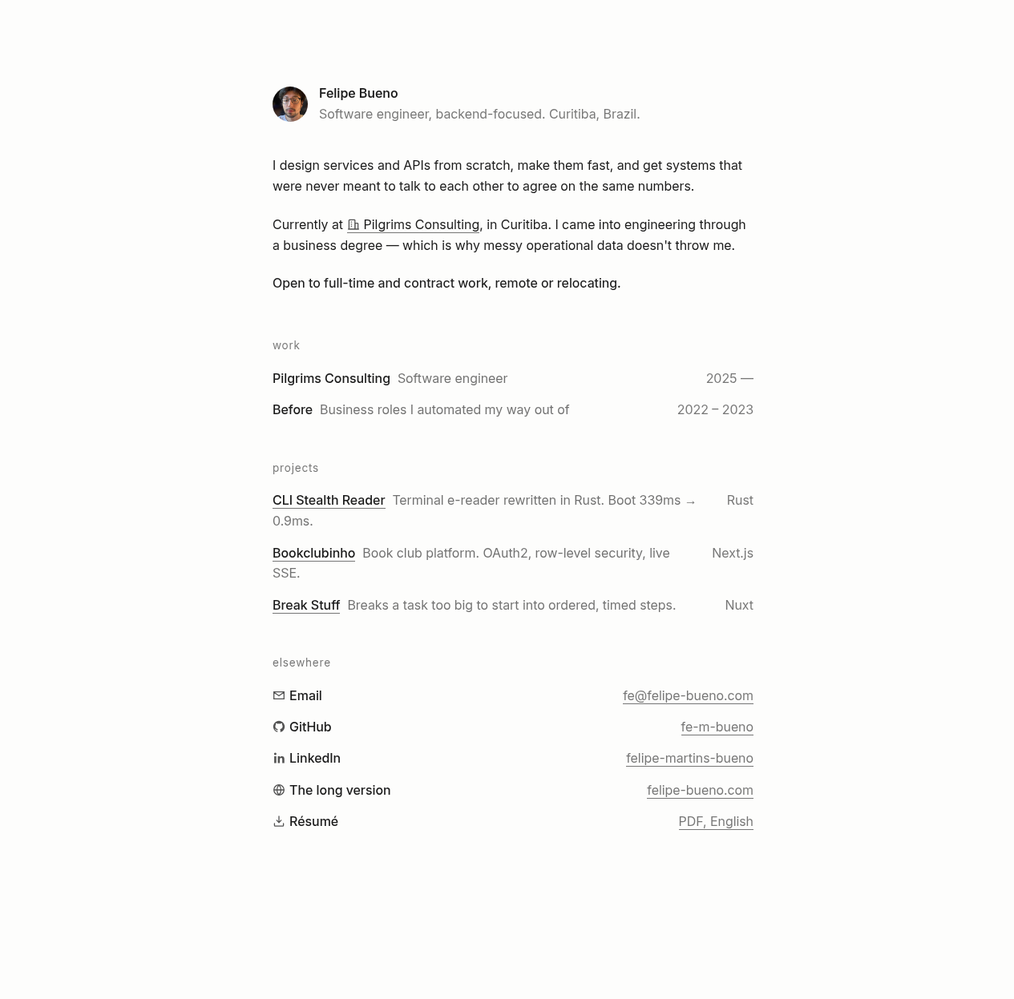
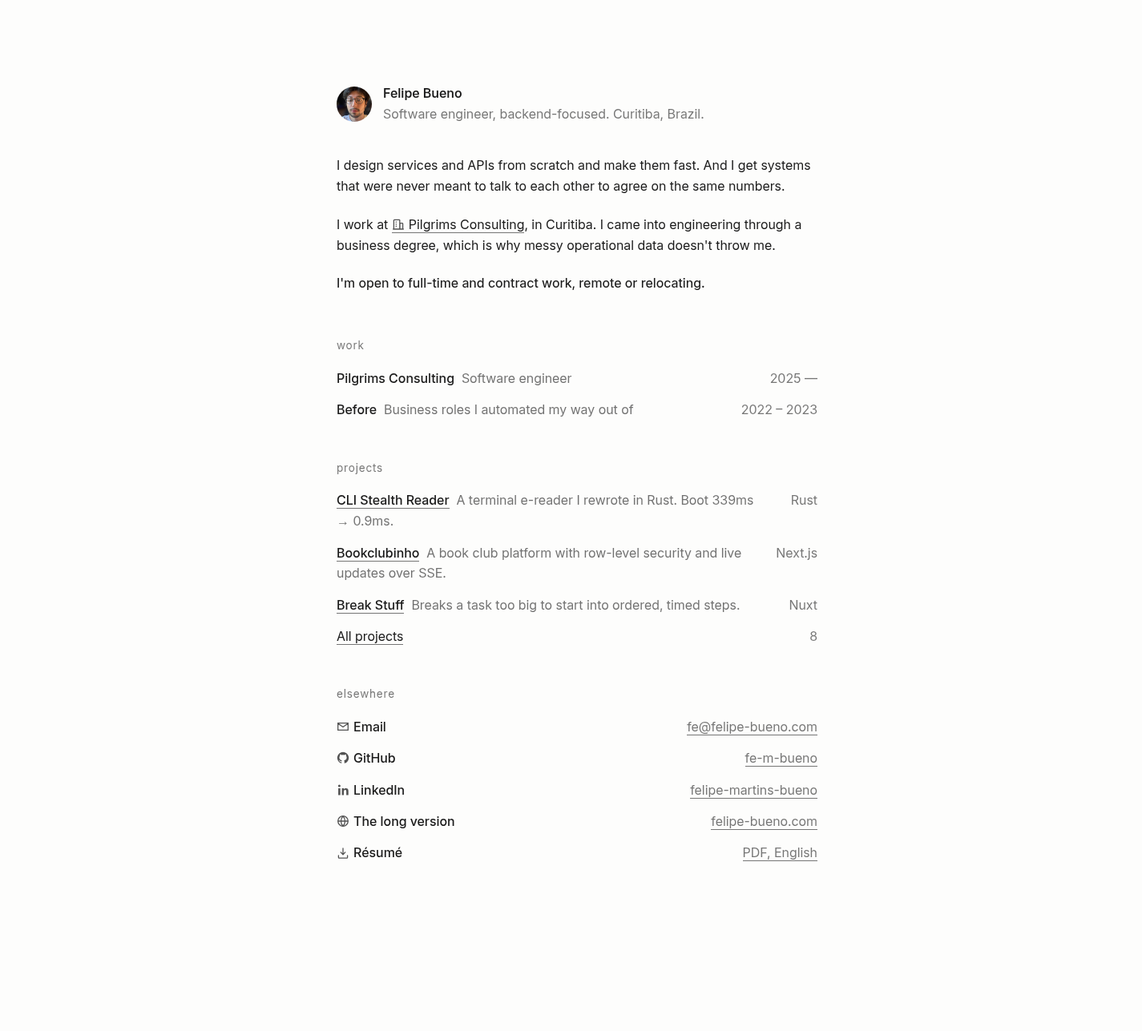
feat: second route, mobile rules and the hover indulgence
Adds /projects, a query over every published project. The rows read from
the project metrics field, which already holds short fragments, so the page
needs no new content type and no new copy. This revises the earlier decision
to ship a single route with no internal navigation.

Fixes the row primitive on mobile: below 560px, rows carrying a detail stack
and the meta moves underneath. Elsewhere rows have no detail and stay in two
columns. Verified at 390x844 with no horizontal overflow.

Settles the indulgence. Hovering a list dims its siblings to 30% and draws a
dotted leader across the pointed row, connecting its text to its meta. Pure
CSS, so the page still ships no JavaScript.

diff --git a/prototype/visual-directions.prototype.html b/prototype/visual-directions.prototype.html
@@ -173,14 +173,21 @@
   #E h2{font-size:13.5px;font-variation-settings:'wght' 400;color:rgba(26,26,26,.60);
         margin:0 0 .75em;letter-spacing:.06em;text-transform:lowercase}
   #E section{margin-bottom:2.6em}
-  #E .rows .row{display:flex;justify-content:space-between;align-items:baseline;gap:2em;
+  #E .rows .row{display:flex;justify-content:space-between;align-items:baseline;gap:.9em;
                 padding:.42em 0;transition:opacity .14s ease}
   #E .rows:hover .row{opacity:.3}
   #E .rows .row:hover{opacity:1}
+  /* a indulgência: apagar as irmãs + o condutor que se completa */
+  #E .rows .row .lead-dots{flex:1 1 auto;align-self:center;min-width:0;height:1px;
+      color:rgba(26,26,26,.45);
+      background-image:repeating-linear-gradient(to right,currentColor 0 2px,transparent 2px 6px);
+      background-repeat:no-repeat;background-position:left center;background-size:0% 1px;
+      transition:background-size .42s cubic-bezier(.16,1,.3,1)}
+  #E .rows .row:hover .lead-dots{background-size:100% 1px}
   #E .row .t{font-variation-settings:'wght' 500}
   #E .row .d{color:rgba(26,26,26,.62)}
   #E .row .m{color:rgba(26,26,26,.60);white-space:nowrap;flex-shrink:0}
-  #E .row .l{flex:1}
+  #E .row .l{flex:0 1 auto;min-width:0}
   #E a{text-decoration:none;border-bottom:1px solid rgba(26,26,26,.60);transition:border-color .14s}
   #E a:hover{border-bottom-color:#1a1a1a}
   /* ícone inline — alinhado à altura-x, nunca empurra a linha */
@@ -209,6 +216,102 @@
     #E .cv{border-color:rgba(232,232,230,.2)}
     #E .cv:hover{border-color:rgba(232,232,230,.45);background:rgba(232,232,230,.04)}
     #E .cv .tip{background:#e8e8e6;color:#0f0f0e}
+  }
+
+  /* --- E no mobile: empilha só as linhas que têm detalhe ---------------------
+     Em 390px o detalhe quebra e o metadado fica preso à direita da primeira
+     linha, com o texto passando por baixo dele. As linhas de Elsewhere não têm
+     detalhe e continuam ótimas em duas colunas, então `:has(.d)` separa as duas. */
+  @media (max-width: 560px){
+    #E .rows .row:has(.d){flex-direction:column;align-items:flex-start;gap:.1em;padding:.55em 0}
+    #E .rows .row:has(.d) .lead-dots{display:none}
+    #E .rows .row:has(.d) .m{color:rgba(26,26,26,.60)}
+    #E .hd{align-items:flex-start}
+  }
+  @media (max-width: 560px) and (prefers-color-scheme: dark){
+    #E .rows .row:has(.d) .m{color:rgba(232,232,230,.50)}
+  }
+
+  /* ============ P — /projects : a segunda rota, consulta sobre todos os projects ============ */
+  #P{font-family:'Inter',system-ui,sans-serif;font-size:16px;line-height:1.62;
+     background:#fdfdfc;color:#1a1a1a;min-height:100vh;padding:104px 24px 160px;
+     font-variation-settings:'wght' 400}
+  #P .col{max-width:600px;margin:0 auto}
+  #P .back{display:inline-block;margin-bottom:2.6em;color:rgba(26,26,26,.60)}
+  #P h1{font-size:16px;font-variation-settings:'wght' 560;margin:0 0 .3em}
+  #P .sub{color:rgba(26,26,26,.60);margin:0 0 2.6em}
+  #P h2{font-size:13.5px;font-variation-settings:'wght' 400;color:rgba(26,26,26,.60);
+        margin:0 0 .75em;letter-spacing:.06em;text-transform:lowercase}
+  #P section{margin-bottom:2.6em}
+  #P .rows .row{display:flex;justify-content:space-between;align-items:baseline;gap:2em;
+                padding:.42em 0;transition:opacity .14s ease}
+  #P .rows:hover .row{opacity:.3}
+  #P .rows .row:hover{opacity:1}
+  #P .row .t{font-variation-settings:'wght' 500}
+  #P .row .d{color:rgba(26,26,26,.62)}
+  #P .row .m{color:rgba(26,26,26,.60);white-space:nowrap;flex-shrink:0}
+  #P .row .l{flex:1}
+  #P a{text-decoration:none;border-bottom:1px solid rgba(26,26,26,.60);transition:border-color .14s}
+  #P a:hover{border-bottom-color:#1a1a1a}
+  @media (max-width: 560px){
+    #P .rows .row:has(.d){flex-direction:column;align-items:flex-start;gap:.1em;padding:.55em 0}
+  }
+  @media(prefers-color-scheme:dark){
+    #P{background:#0f0f0e;color:#e8e8e6}
+    #P .back,#P .sub,#P h2,#P .row .m{color:rgba(232,232,230,.50)}
+    #P .row .d{color:rgba(232,232,230,.6)}
+    #P a{border-bottom-color:rgba(232,232,230,.50)}#P a:hover{border-bottom-color:#e8e8e6}
+  }
+
+  /* ============ H — as quatro ideias de hover, lado a lado, CSS puro ============ */
+  #H{font-family:'Inter',system-ui,sans-serif;font-size:16px;line-height:1.62;
+     background:#fdfdfc;color:#1a1a1a;min-height:100vh;padding:88px 24px 160px;
+     font-variation-settings:'wght' 400}
+  #H .col{max-width:600px;margin:0 auto}
+  #H .lead{color:rgba(26,26,26,.60);margin:0 0 3.2em}
+  #H .idea{margin-bottom:3.4em}
+  #H .tag{font-size:13.5px;letter-spacing:.06em;text-transform:lowercase;
+          color:rgba(26,26,26,.60);margin:0 0 .2em}
+  #H .why{font-size:13.5px;color:rgba(26,26,26,.60);margin:0 0 1em}
+  #H .row{display:flex;justify-content:space-between;align-items:baseline;gap:1em;padding:.42em 0}
+  #H .t{font-variation-settings:'wght' 500}
+  #H .d{color:rgba(26,26,26,.62)}
+  #H .m{color:rgba(26,26,26,.60);white-space:nowrap;flex-shrink:0}
+  #H .l{flex:1}
+  #H a{text-decoration:none;border-bottom:1px solid rgba(26,26,26,.60)}
+
+  /* 1 — condutor que se completa */
+  #H .i1 .lead-dots{flex:1;align-self:center;height:1px;
+      background-image:repeating-linear-gradient(to right,currentColor 0 2px,transparent 2px 6px);
+      background-repeat:no-repeat;background-position:left center;background-size:0% 1px;
+      color:rgba(26,26,26,.45);
+      transition:background-size .42s cubic-bezier(.16,1,.3,1)}
+  #H .i1 .row:hover .lead-dots{background-size:100% 1px}
+
+  /* 2 — o número que se revela */
+  #H .i2 .before{display:inline-block;max-width:0;opacity:0;overflow:hidden;white-space:nowrap;
+      vertical-align:bottom;color:rgba(26,26,26,.45);
+      transition:max-width .36s cubic-bezier(.16,1,.3,1),opacity .22s ease}
+  #H .i2 .row:hover .before{max-width:9em;opacity:1}
+
+  /* 3 — a coluna que troca de assunto */
+  #H .i3 .swap{display:grid;justify-items:end}
+  #H .i3 .swap>span{grid-area:1/1;transition:opacity .18s ease}
+  #H .i3 .swap .alt{opacity:0}
+  #H .i3 .row:hover .swap .now{opacity:0}
+  #H .i3 .row:hover .swap .alt{opacity:1}
+
+  /* 4 — apagar as irmãs (o que está lá hoje) */
+  #H .i4 .rows:hover .row{opacity:.3;transition:opacity .14s ease}
+  #H .i4 .rows .row:hover{opacity:1}
+
+  @media(prefers-color-scheme:dark){
+    #H{background:#0f0f0e;color:#e8e8e6}
+    #H .lead,#H .tag,#H .why,#H .m{color:rgba(232,232,230,.50)}
+    #H .d{color:rgba(232,232,230,.6)}
+    #H a{border-bottom-color:rgba(232,232,230,.50)}
+    #H .i1 .lead-dots{color:rgba(232,232,230,.40)}
+    #H .i2 .before{color:rgba(232,232,230,.40)}
   }
 
   /* ============ barra do protótipo — deliberadamente feia, não faz parte do design ============ */
@@ -280,6 +383,7 @@
     <div class="row"><span class="l"><span class="t"><a href="#">CLI Stealth Reader</a></span> &nbsp;<span class="d">Terminal e-reader rewritten in Rust. Boot 339ms &rarr; 0.9ms.</span></span><span class="m">Rust</span></div>
     <div class="row"><span class="l"><span class="t"><a href="#">Bookclubinho</a></span> &nbsp;<span class="d">Book club platform. OAuth2, row-level security, live SSE.</span></span><span class="m">Next.js</span></div>
     <div class="row"><span class="l"><span class="t"><a href="#">Break Stuff</a></span> &nbsp;<span class="d">Breaks a task too big to start into ordered, timed steps.</span></span><span class="m">Nuxt</span></div>
+    <div class="row"><span class="l"><a href="?variant=P">All projects</a></span><span class="m">8</span></div>
   </div></section>
 
   <!-- writing: ausente, blogPost === 0 -->
@@ -351,6 +455,7 @@
     <div class="row"><span class="l"><span class="t"><a href="#">CLI Stealth Reader</a></span> &nbsp;<span class="d">Terminal e-reader rewritten in Rust. Boot 339ms &rarr; 0.9ms.</span></span><span class="m">Rust</span></div>
     <div class="row"><span class="l"><span class="t"><a href="#">Bookclubinho</a></span> &nbsp;<span class="d">Book club platform. OAuth2, row-level security, live SSE.</span></span><span class="m">Next.js</span></div>
     <div class="row"><span class="l"><span class="t"><a href="#">Break Stuff</a></span> &nbsp;<span class="d">Breaks a task too big to start into ordered, timed steps.</span></span><span class="m">Nuxt</span></div>
+    <div class="row"><span class="l"><a href="?variant=P">All projects</a></span><span class="m">8</span></div>
   </div></section>
 
   <!-- writing: ausente, blogPost === 0 -->
@@ -377,25 +482,89 @@
   <p class="avail">I'm open to full-time and contract work, remote or relocating.</p>
 
   <section><h2>work</h2><div class="rows">
-    <div class="row"><span class="l"><span class="t">Pilgrims Consulting</span> &nbsp;<span class="d">Software engineer</span></span><span class="m">2025 &mdash;</span></div>
-    <div class="row"><span class="l"><span class="t">Before</span> &nbsp;<span class="d">Business roles I automated my way out of</span></span><span class="m">2022 &ndash; 2023</span></div>
+    <div class="row"><span class="l"><span class="t">Pilgrims Consulting</span> &nbsp;<span class="d">Software engineer</span></span><span class="lead-dots"></span><span class="m">2025 &mdash;</span></div>
+    <div class="row"><span class="l"><span class="t">Before</span> &nbsp;<span class="d">Business roles I automated my way out of</span></span><span class="lead-dots"></span><span class="m">2022 &ndash; 2023</span></div>
   </div></section>
 
   <section><h2>projects</h2><div class="rows">
-    <div class="row"><span class="l"><span class="t"><a href="#">CLI Stealth Reader</a></span> &nbsp;<span class="d">A terminal e-reader I rewrote in Rust. Boot 339ms &rarr; 0.9ms.</span></span><span class="m">Rust</span></div>
-    <div class="row"><span class="l"><span class="t"><a href="#">Bookclubinho</a></span> &nbsp;<span class="d">A book club platform with row-level security and live updates over SSE.</span></span><span class="m">Next.js</span></div>
-    <div class="row"><span class="l"><span class="t"><a href="#">Break Stuff</a></span> &nbsp;<span class="d">Breaks a task too big to start into ordered, timed steps.</span></span><span class="m">Nuxt</span></div>
+    <div class="row"><span class="l"><span class="t"><a href="#">CLI Stealth Reader</a></span> &nbsp;<span class="d">A terminal e-reader I rewrote in Rust. Boot 339ms &rarr; 0.9ms.</span></span><span class="lead-dots"></span><span class="m">Rust</span></div>
+    <div class="row"><span class="l"><span class="t"><a href="#">Bookclubinho</a></span> &nbsp;<span class="d">A book club platform with row-level security and live updates over SSE.</span></span><span class="lead-dots"></span><span class="m">Next.js</span></div>
+    <div class="row"><span class="l"><span class="t"><a href="#">Break Stuff</a></span> &nbsp;<span class="d">Breaks a task too big to start into ordered, timed steps.</span></span><span class="lead-dots"></span><span class="m">Nuxt</span></div>
+    <div class="row"><span class="l"><a href="?variant=P">All projects</a></span><span class="lead-dots"></span><span class="m">8</span></div>
   </div></section>
 
   <!-- writing: ausente, blogPost === 0 -->
 
   <section><h2>elsewhere</h2><div class="rows">
-    <div class="row"><span class="l"><span class="t"><svg class="ic"><use href="#i-mail"/></svg>Email</span></span><span class="m"><a href="mailto:fe@felipe-bueno.com">fe@felipe-bueno.com</a></span></div>
-    <div class="row"><span class="l"><span class="t"><svg class="ic"><use href="#i-gh"/></svg>GitHub</span></span><span class="m"><a href="#">fe-m-bueno</a></span></div>
-    <div class="row"><span class="l"><span class="t"><svg class="ic"><use href="#i-li"/></svg>LinkedIn</span></span><span class="m"><a href="#">felipe-martins-bueno</a></span></div>
-    <div class="row"><span class="l"><span class="t"><svg class="ic"><use href="#i-web"/></svg>The long version</span></span><span class="m"><a href="#">felipe-bueno.com</a></span></div>
-    <div class="row"><span class="l"><span class="t"><svg class="ic"><use href="#i-pdf"/></svg>Résumé</span></span><span class="m"><a href="#" download>PDF, English</a></span></div>
+    <div class="row"><span class="l"><span class="t"><svg class="ic"><use href="#i-mail"/></svg>Email</span></span><span class="lead-dots"></span><span class="m"><a href="mailto:fe@felipe-bueno.com">fe@felipe-bueno.com</a></span></div>
+    <div class="row"><span class="l"><span class="t"><svg class="ic"><use href="#i-gh"/></svg>GitHub</span></span><span class="lead-dots"></span><span class="m"><a href="#">fe-m-bueno</a></span></div>
+    <div class="row"><span class="l"><span class="t"><svg class="ic"><use href="#i-li"/></svg>LinkedIn</span></span><span class="lead-dots"></span><span class="m"><a href="#">felipe-martins-bueno</a></span></div>
+    <div class="row"><span class="l"><span class="t"><svg class="ic"><use href="#i-web"/></svg>The long version</span></span><span class="lead-dots"></span><span class="m"><a href="#">felipe-bueno.com</a></span></div>
+    <div class="row"><span class="l"><span class="t"><svg class="ic"><use href="#i-pdf"/></svg>Résumé</span></span><span class="lead-dots"></span><span class="m"><a href="#" download>PDF, English</a></span></div>
   </div></section>
+</div></div>
+
+
+<!-- ======================= P — /projects ======================= -->
+<div class="page" id="P"><div class="col">
+  <p><a class="back" href="?variant=E">&larr; Felipe Bueno</a></p>
+  <h1>Projects</h1>
+  <p class="sub">Everything I've shipped and kept online. Three of these are on the front page.</p>
+
+  <section><div class="rows">
+    <div class="row"><span class="l"><span class="t"><a href="#">CLI Stealth Reader</a></span> &nbsp;<span class="d">Boot 339ms &rarr; 0.9ms &middot; Memory 157MB &rarr; 15MB</span></span><span class="m">Rust</span></div>
+    <div class="row"><span class="l"><span class="t"><a href="#">Bookclubinho</a></span> &nbsp;<span class="d">Row level security &middot; Live updates over SSE</span></span><span class="m">Next.js</span></div>
+    <div class="row"><span class="l"><span class="t"><a href="#">Break Stuff</a></span> &nbsp;<span class="d">Model-agnostic via OpenRouter &middot; Local-first, no account</span></span><span class="m">Nuxt</span></div>
+    <div class="row"><span class="l"><span class="t"><a href="#">Recollagefm</a></span> &nbsp;<span class="d">Server-side rendering &middot; Grids up to 10&times;10</span></span><span class="m">Next.js</span></div>
+    <div class="row"><span class="l"><span class="t"><a href="#">Weather Now At</a></span> &nbsp;<span class="d">Weather-driven theming &middot; Hourly chart, 6 metrics</span></span><span class="m">SvelteKit</span></div>
+    <div class="row"><span class="l"><span class="t"><a href="#">Lederboxed</a></span> &nbsp;<span class="d">500K+ titles &middot; Real-time search</span></span><span class="m">Next.js</span></div>
+    <div class="row"><span class="l"><span class="t"><a href="#">Stopwatch</a></span> &nbsp;<span class="d">Centisecond precision &middot; Keyboard-driven</span></span><span class="m">SvelteKit</span></div>
+    <div class="row"><span class="l"><span class="t"><a href="#">Questione</a></span> &nbsp;<span class="d">Gemini AI &middot; Instant generation</span></span><span class="m">Next.js</span></div>
+  </div></section>
+</div></div>
+
+
+<!-- ======================= H — IDEIAS DE HOVER ======================= -->
+<div class="page" id="H"><div class="col">
+  <p class="lead">Passe o mouse em cada bloco. Tudo CSS puro, nenhum JavaScript.<br>
+  Suavização expo <code>cubic-bezier(.16,1,.3,1)</code>, a mesma que as 16 referências usam.</p>
+
+  <div class="idea i1">
+    <p class="tag">1 &middot; o condutor que se completa</p>
+    <p class="why">Em repouso nada liga os dois lados. No hover, os pontinhos crescem da esquerda e fecham a linha. Traz o traço da variante A sob demanda.</p>
+    <div class="rows">
+      <div class="row"><span class="t">Pilgrims Consulting</span><span class="lead-dots"></span><span class="m">Software engineer &middot; 2025&ndash;</span></div>
+      <div class="row"><span class="t">Before</span><span class="lead-dots"></span><span class="m">2022 &ndash; 2023</span></div>
+    </div>
+  </div>
+
+  <div class="idea i2">
+    <p class="tag">2 &middot; o número que se revela</p>
+    <p class="why">Em repouso você vê só o número que importa. No hover, o <em>antes</em> desliza por dentro. Encena sua posição inteira sem animar contador.</p>
+    <div class="rows">
+      <div class="row"><span class="l"><span class="t"><a href="#">CLI Stealth Reader</a></span> &nbsp;<span class="d">Terminal e-reader in Rust. Boot <span class="before">339ms &rarr;&nbsp;</span>0.9ms.</span></span><span class="m">Rust</span></div>
+      <div class="row"><span class="l"><span class="t"><a href="#">CLI Stealth Reader</a></span> &nbsp;<span class="d">Memory <span class="before">157MB &rarr;&nbsp;</span>15MB.</span></span><span class="m">Rust</span></div>
+    </div>
+  </div>
+
+  <div class="idea i3">
+    <p class="tag">3 &middot; a coluna que troca de assunto</p>
+    <p class="why">O metadado da direita mostra a tecnologia e troca pelo que o projeto provou. Barato, mas qualquer portfólio poderia fazer.</p>
+    <div class="rows">
+      <div class="row"><span class="l"><span class="t"><a href="#">CLI Stealth Reader</a></span> &nbsp;<span class="d">A terminal e-reader I rewrote in Rust.</span></span><span class="m swap"><span class="now">Rust</span><span class="alt">339ms &rarr; 0.9ms</span></span></div>
+      <div class="row"><span class="l"><span class="t"><a href="#">Bookclubinho</a></span> &nbsp;<span class="d">A book club platform.</span></span><span class="m swap"><span class="now">Next.js</span><span class="alt">Row-level security</span></span></div>
+    </div>
+  </div>
+
+  <div class="idea i4">
+    <p class="tag">4 &middot; apagar as irmãs</p>
+    <p class="why">O que está na variante E hoje. Sólido e legível &mdash; e é o que dois dos 16 sites fazem, então não é seu.</p>
+    <div class="rows">
+      <div class="row"><span class="l"><span class="t"><a href="#">CLI Stealth Reader</a></span> &nbsp;<span class="d">A terminal e-reader I rewrote in Rust.</span></span><span class="m">Rust</span></div>
+      <div class="row"><span class="l"><span class="t"><a href="#">Bookclubinho</a></span> &nbsp;<span class="d">A book club platform.</span></span><span class="m">Next.js</span></div>
+      <div class="row"><span class="l"><span class="t"><a href="#">Break Stuff</a></span> &nbsp;<span class="d">Breaks a task too big to start.</span></span><span class="m">Nuxt</span></div>
+    </div>
+  </div>
 </div></div>
 
 <div id="bar">
@@ -409,6 +578,8 @@
   var V = [
     ['D','Merge — base B, fundo de A, títulos de C, ícones + avatar + currículo'],
     ['E','Merge em AA — mesma página, opacidades que passam no WCAG'],
+    ['P','/projects — a segunda rota, os 8 projetos por consulta'],
+    ['H','Hovers — as quatro ideias lado a lado, passe o mouse'],
     ['A','Ledger — mono, um tamanho, condutor pontilhado, 560px'],
     ['B','Prosa — sans variável, meio-pesos, hover apaga irmãos, 600px'],
     ['C','Estreito — 400px, dark-first, metadado empilhado, zero filete']

diff --git a/.scratch/tldr-site/map.md b/.scratch/tldr-site/map.md
@@ -23,7 +23,7 @@ que `felipe-bueno.com`.
 | Vive onde | Subdomínio, coexistindo com o site completo. O TLDR não substitui nada |
 | Trabalho | Cartão de visita técnico: em 15s, quem é, o que faz bem, 3-4 provas, como achar |
 | Idioma | Só EN. Sem i18next, sem cookie de locale, sem seletor |
-| Páginas | **Uma.** Zero rota interna. Todo link leva pra fora |
+| Páginas | **Duas:** a home e `/projects`. Decisão revista depois do mapa fechar, ver ticket 09 |
 | Seções | nome → uma linha → bio curta → Work → Projects → Writing → Elsewhere |
 | Conteúdo | Mesmo space, mesmo environment `master`, migration **aditiva** com prefixo `tldr*`. Modelo híbrido: perfil próprio + referências a `project`/`blogPost` com override curto |
 | Condicionais | Duas seções somem sozinhas quando o Contentful esvazia: a linha de disponibilidade e a seção Writing (que hoje tem zero posts) |
@@ -55,12 +55,13 @@ study (15/16) · movimento só na entrada e no hover · uma indulgência, nunca 
 
 - [SvelteKit + Contentful: o que é fato](issues/01-sveltekit-contentful.md) — svelte@5.57 / kit@2.70 (não existe Kit 3); `+page.server.ts` + `prerender=true` + `adapter-static{strict}` faz build-time fetch; SDK `contentful@11` roda sem wrapper; tipos à mão valem mais que gerador para ~2 types; **`isr` não tem efeito onde `prerender=true`** — prerender e ISR são mutuamente exclusivos por rota. Detalhes em `research/sveltekit-contentful.md`
 - [As palavras que vão na página](issues/02-conteudo-da-pagina.md) — página fechada em ~115 palavras: cargo+lugar sob o nome, bio de 47 palavras que posiciona sem números, Work com os dois estágios comprimidos numa linha "Before", 3 projetos escolhidos por profundidade (não pelo `featured`), Elsewhere como lista de duas colunas. Disponibilidade e Writing são **condicionais**, controladas pelo Contentful
-- [Direção visual](issues/03-direcao-visual.md) — variante **D**: Inter variável a 600px, um tamanho de corpo com hierarquia por meio-pesos (400/460/500/560), fundo `#fdfdfc` claro e `#0f0f0e` escuro por `prefers-color-scheme` sem toggle, títulos de seção minúsculos e espaçados a 38%. Mais avatar de 44px (de `heroImage`, não `profileImage`), ícones SVG inline sem dependência, e o currículo como linha do Elsewhere. Única animação: hover apaga as linhas irmãs
+- [Direção visual](issues/03-direcao-visual.md) — variante **D**: Inter variável a 600px, um tamanho de corpo com hierarquia por meio-pesos (400/460/500/560), fundo `#fdfdfc` claro e `#0f0f0e` escuro por `prefers-color-scheme` sem toggle, títulos de seção minúsculos e espaçados a 38%. Mais avatar de 44px (de `heroImage`, não `profileImage`), ícones SVG inline sem dependência, e o currículo como linha do Elsewhere. Única animação: no hover as linhas irmãs apagam para 30% e um condutor pontilhado cresce na linha apontada, ligando texto e metadado (ver emenda do ticket 03)
 - [Modelo de conteúdo `tldr*`](issues/04-modelo-conteudo-tldr.md) — dois types: `tldrRow` (o primitivo universal das quatro listas) e `tldrProfile` (singleton com três arrays ordenados). Writing virou **consulta** pelos 3 posts mais recentes, não lista curada — era a única forma de "aparece sozinha" ser verdade. Migration aditiva escrita e **não rodada** em `contentful/migrations/003-tldr-model.js`; glossário em `CONTEXT.md`
 - [Adapter e revalidação](issues/05-adapter-e-build.md) — `adapter-static` + `prerender = true`, contra o precedente do site completo (que usa ISR a 60s). O token só existe no build, sem função serverless. Atualização por **dois** webhooks do Contentful apontando pro mesmo deploy hook: um de entradas filtrado em `tldrProfile`/`tldrRow`/`blogPost`/`project`, outro de assets sem filtro — porque filtro de content type descartaria os assets
 - [Hostname e relação entre os sites](issues/06-hostname-e-relacao.md) — `tldr.felipe-bueno.com`, projeto separado na Vercel, deploys desacoplados. A entrada é um **botão "TLDR" no site completo**, que continua sendo o endereço oficial. Link recíproco, e o TLDR é `noindex` para não competir com ele em busca
 - [Contraste](issues/07-contraste.md) — a variante D reprovava em **4 dos 6 tiers** no tema claro. Corrigido na variante **E**: opacidades a 0.60 (claro) e 0.50 (escuro), todos os tiers em WCAG AA. A medição desmentiu a hipótese do ticket: a hierarquia não colapsou, porque nunca vinha da cor — vem dos meio-pesos da fonte variável
 - [Acabamento](issues/08-acabamento.md) — favicon é o ƒ do site completo invertido (preto sobre `#ebebeb`), já gerado em `static/`. OG reusa `/felipe-bueno.png` com título e descrição novos. **Nenhum analytics**: a página fica com zero JavaScript, e o clique no botão se mede no site completo. Sem `llms.txt`
+- [A segunda rota: /projects](issues/09-rota-projects.md) — revê a decisão de "uma página, ponto". `/projects` é **consulta** sobre todos os `project` publicados, sem content type novo e sem texto novo: as linhas usam o campo `metrics`, que já guarda fragmentos curtos. Home ganha uma linha `All projects`
 
 ## Not yet specified
 

diff --git a/.scratch/tldr-site/issues/03-direcao-visual.md b/.scratch/tldr-site/issues/03-direcao-visual.md
@@ -91,3 +91,42 @@ Protótipo em `prototype/visual-directions.prototype.html` (`?variant=A|B|C|D`).
 Os valores de opacidade acima foram substituídos pela variante **E**: subtítulo, metadado,
 título de seção e sublinhado vão para alfa 0.60 no claro e 0.50 no escuro, para passar em
 WCAG AA. A hierarquia por meio-peso fica como está — ver `issues/07-contraste.md`.
+
+## Emenda — comportamento em mobile (verificado)
+
+Medido em 390×844. A variante E não tinha overflow horizontal, mas **a linha de duas colunas
+quebrava**: o detalhe passava para a segunda linha enquanto o metadado ficava ancorado à direita
+da primeira, e o texto corria por baixo dele.
+
+Regra acrescentada: abaixo de 560px, empilham **só as linhas que têm detalhe**
+(`.row:has(.d)`), com o metadado indo para baixo. As linhas de Elsewhere não têm detalhe e
+continuam em duas colunas, onde funcionam bem. O desktop não muda — confirmado que
+`flex-direction` segue `row` em 1440px.
+
+Altura em 390px: 1,91 telas.
+
+## Emenda — a indulgência, decidida
+
+Quatro ideias foram prototipadas em `?variant=H`, todas CSS puro para respeitar o zero
+JavaScript decidido no ticket 08. O Felipe escolheu **a mistura de 1 com 4**:
+
+1. **Apagar as irmãs.** Passar o mouse numa lista leva as outras linhas a 30% em 140ms.
+2. **O condutor que se completa.** A linha sob o cursor ganha um traço pontilhado crescendo da
+   esquerda para a direita, ligando o texto ao metadado. Gradiente repetido com `background-size`
+   indo de `0%` a `100%` em 420ms, suavização expo `cubic-bezier(.16,1,.3,1)`.
+
+A página fica calma parada; a linha se completa quando alguém aponta. É também a forma de trazer
+o traço da variante A, que o Felipe tinha elogiado, sem ele estar presente o tempo todo.
+
+### Detalhes que só apareceram montando
+
+- **O condutor precisa da sobra da linha.** Primeira tentativa deu `flex:1` a ele e ao bloco de
+  texto, que então dividiram o espaço igualmente e forçaram quebra de linha no desktop. Correção:
+  o texto é `flex:0 1 auto` e dimensiona pelo conteúdo, o condutor é `flex:1 1 auto` e fica com a
+  sobra. Isso corrigiu de lambuja uma quebra que já existia na linha "Before".
+- **Em Projects o traço fica curto**, porque a descrição quase preenche a linha. Em Work e
+  Elsewhere sobra bastante espaço e o efeito aparece inteiro.
+- **No mobile o condutor some.** Abaixo de 560px as linhas com detalhe empilham, e não há vão
+  entre texto e metadado para ligar.
+
+Altura da página não mudou: 1287px.

diff --git a/.scratch/tldr-site/issues/09-rota-projects.md b/.scratch/tldr-site/issues/09-rota-projects.md
@@ -1,0 +1,49 @@
+# A segunda rota: /projects
+
+Type: prototype
+Status: resolved
+
+## Question
+
+O Felipe pediu um clique em Projects que leve a uma página com os outros projetos.
+
+**Isso derruba uma decisão travada no mapeamento:** "uma página, ponto — zero rota interna,
+todo link leva pra fora". Foi essa decisão que colapsou roteamento, template secundário e
+metade do schema. Também é o ponto onde 15 das 16 referências foram na direção oposta.
+
+Decisão do Felipe, registrada. A mudança é contida: `adapter-static` prerenderiza duas rotas
+sem alteração de arquitetura, e o `noindex` vale para as duas.
+
+## Answer
+
+**`/projects` é uma consulta, não uma lista curada.** Lista todo `project` com status
+publicado ou destacado, ordenado por `order`, direto do Contentful. Hoje traz os 8.
+
+### Consequências no que já estava fechado
+
+| Ticket | O que muda |
+|---|---|
+| 02 | O inventário deixa de ser uma página e passa a ser duas. A home segue igual |
+| 03 | Ganha um template secundário, que reusa o mesmo primitivo de linha |
+| 04 | **Nenhum type novo.** Mesmo padrão do Writing: a rota consulta `project` direto |
+| 05 | Nenhuma mudança. `adapter-static` prerenderiza as duas rotas |
+| 06 | `noindex` nas duas |
+
+### O texto das linhas vem de `metrics`, não de `description`
+
+Como é consulta direta, o texto exibido teria que sair do `project`. A `description` tem 200+
+caracteres e é bilíngue, e quebraria a estética. O campo **`metrics`** já guarda fragmentos
+curtos e nativos de TLDR (`Boot 339ms → 0.9ms`, `Row level security`, `500K+ titles`). A linha
+mostra os dois primeiros, unidos por `·`.
+
+Isso significa que **a segunda página não exige escrever nada novo** e cresce sozinha quando o
+Felipe publica um projeto.
+
+### Forma
+
+- Home: as 3 linhas curadas, mais uma linha `All projects` com metadado `8` apontando pra rota.
+- `/projects`: um link `← Felipe Bueno` no topo, título, uma linha de subtítulo, e a lista.
+- Desktop: 900px de altura. Cabe numa tela, sem rolar.
+- Mobile em 390px: 1,45 telas, sem overflow horizontal.
+
+Protótipo em `?variant=P`.
